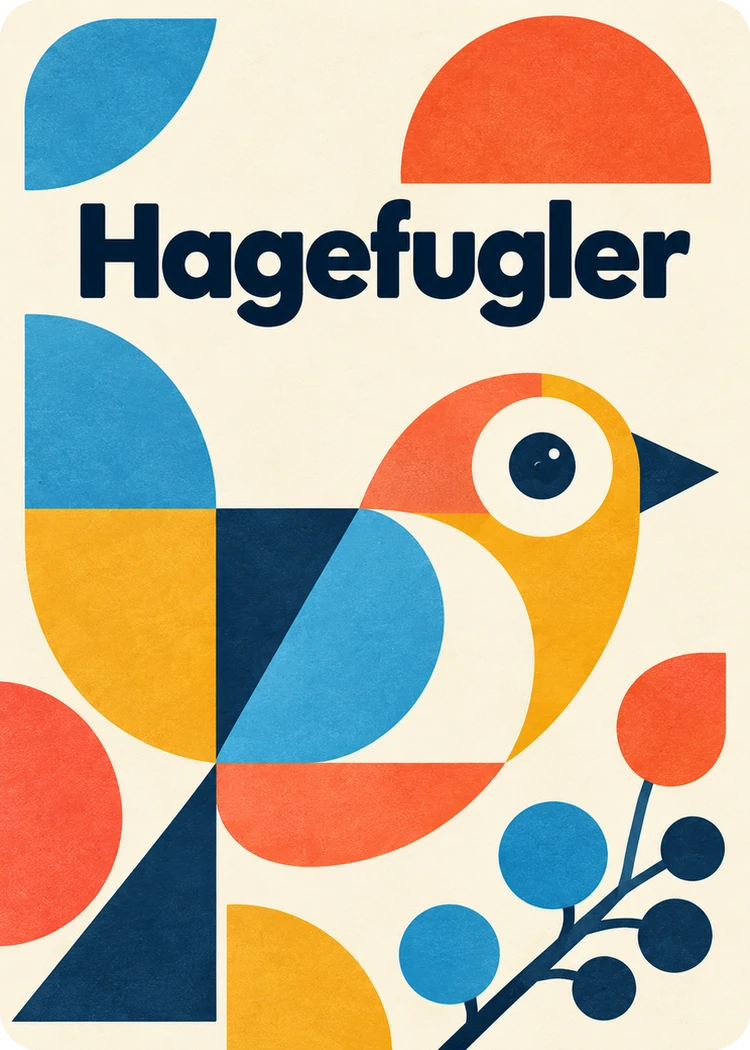
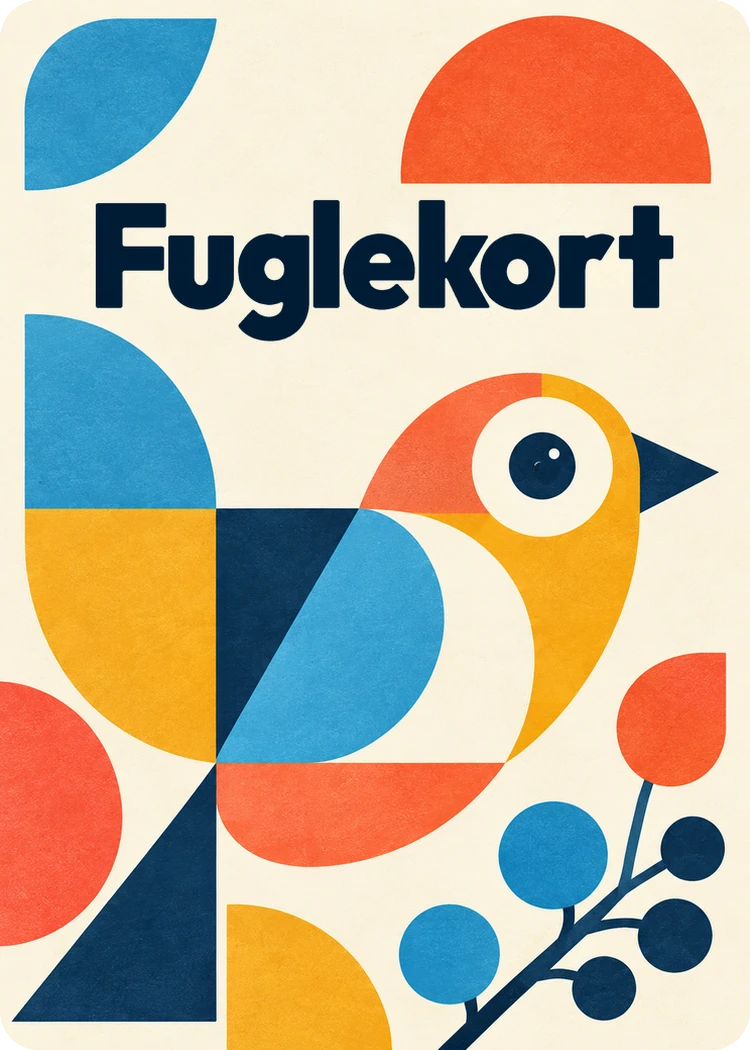
Nye forklaringskort og bakside fra Fuglekort- 1440689
- Forklaringskortene (000a, 000b, 000c, b00) sier «Fuglekort» og har ikke lenger fugleikonet.
- Baksiden sier «Fuglekort». Ordet er større og gikk inn i app-ikonet, så
  importer_fuglekort.py finner nå hvor ordet slutter og skjærer ikonet under det.

Claude-Session: https://claude.ai/code/session_01NWc2WqwTbbfMf56TzWUSfX

Changed region(s): [[0.092, 0.1829, 0.92, 0.3352]]

diff --git a/docs/sw.js b/docs/sw.js
@@ -1,6 +1,6 @@
 // Hagefugler – offline-støtte for den frittstående appen.
 // build.py setter versjonen ut fra innholdet, så telefonene henter alt på nytt etter hver endring.
-const CACHE = 'hagefugler-oslo-643b5f889a';
+const CACHE = 'hagefugler-oslo-e70d55b98e';
 const ASSETS = [
   "./",
   "index.html",

diff --git a/importer_fuglekort.py b/importer_fuglekort.py
@@ -56,8 +56,12 @@ def ikon(bakside, storrelse, maskable=False):
     im = Image.open(bakside).convert("RGBA")
     bak = Image.new("RGBA", im.size, im.getpixel((W // 2, 8))[:3] + (255,))
     bak.alpha_composite(im)
-    side = H - 335                      # under ordet «Hagefugler», ned til bunnen
-    kvadrat = bak.crop((18, 335, 18 + side, 335 + side)).convert("RGB")
+    # under ordet øverst («Fuglekort», tidligere «Hagefugler»), ned til bunnen: finn nederste mørke rad i ordet
+    mork = (np.asarray(bak.convert("RGB")).astype(int).sum(2) < 250).any(1)
+    topp = max(y for y in range(200, 430) if mork[y]) + 9
+    side = H - topp
+    x0 = (W - side) // 2
+    kvadrat = bak.crop((x0, topp, x0 + side, topp + side)).convert("RGB")
     if maskable:
         flate = Image.new("RGB", (side, side), im.getpixel((W // 2, 8))[:3])
         liten = kvadrat.resize((int(side * 0.8), int(side * 0.8)), Image.LANCZOS)
